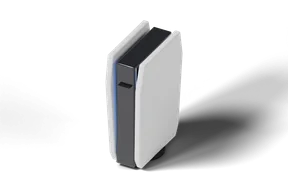
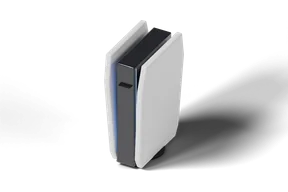
Consoles : les ailes de la PS5 s'évasent franchement vers le haut
Évasement accentué (cisaillement de 0,11), comme sur la vraie console ; le script de
conversion ne prend que les rendus nommés d'après le code de la console.

diff --git a/scripts/consoles/render.py b/scripts/consoles/render.py
@@ -515,7 +515,7 @@ def ps5():
     # Les ailes s'évasent vers le haut (cisaillement : l'écart grandit avec la hauteur)
     left = profile('aile-gauche', wing, 0.0, 2.0, white, bevel=0.5)
     right = profile('aile-droite', wing, 8.4, 10.4, white, bevel=0.5)
-    flare = 0.07
+    flare = 0.11
     left.matrix_world = Matrix(((1, 0, -flare, 2.0 * 0), (0, 1, 0, 0), (0, 0, 1, 0), (0, 0, 0, 1)))
     right.matrix_world = Matrix(((1, 0, flare, 0), (0, 1, 0, 0), (0, 0, 1, 0), (0, 0, 0, 1)))
     for x in (1.95, 8.35):
